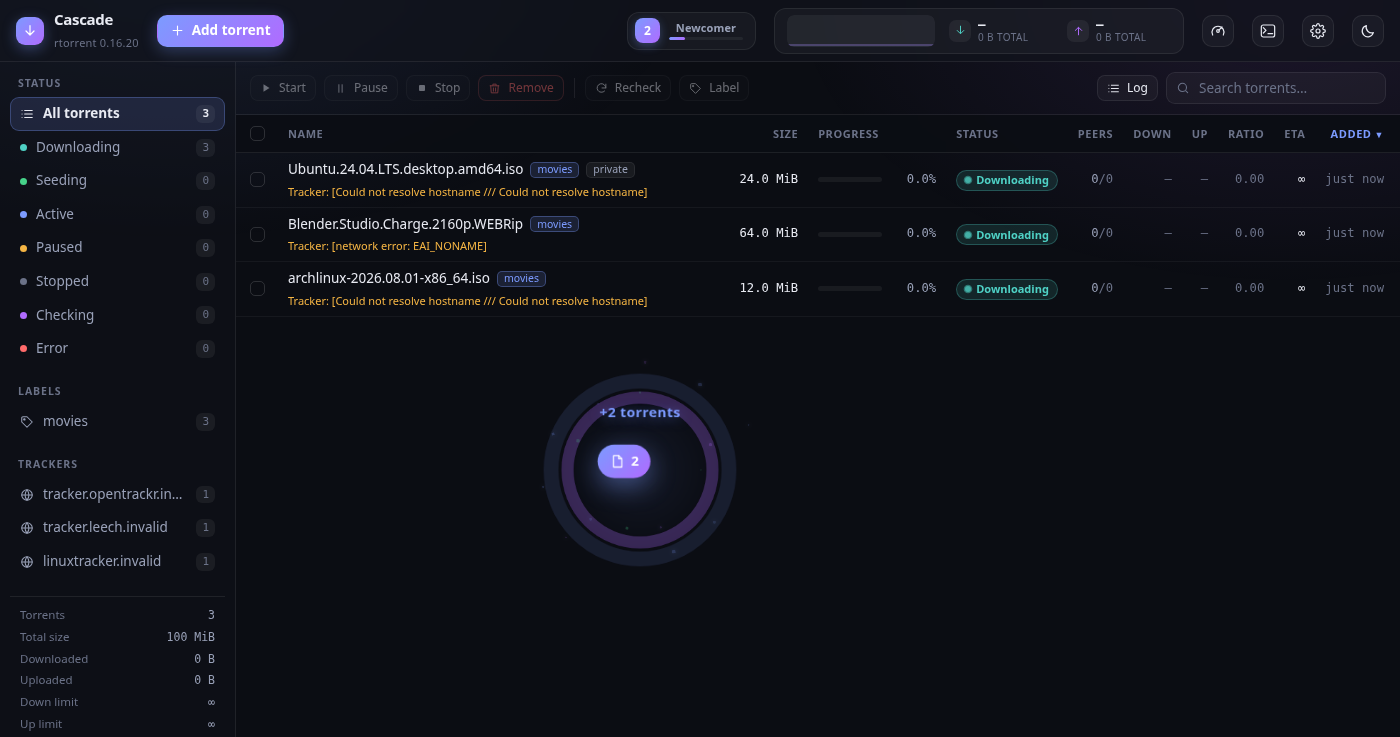
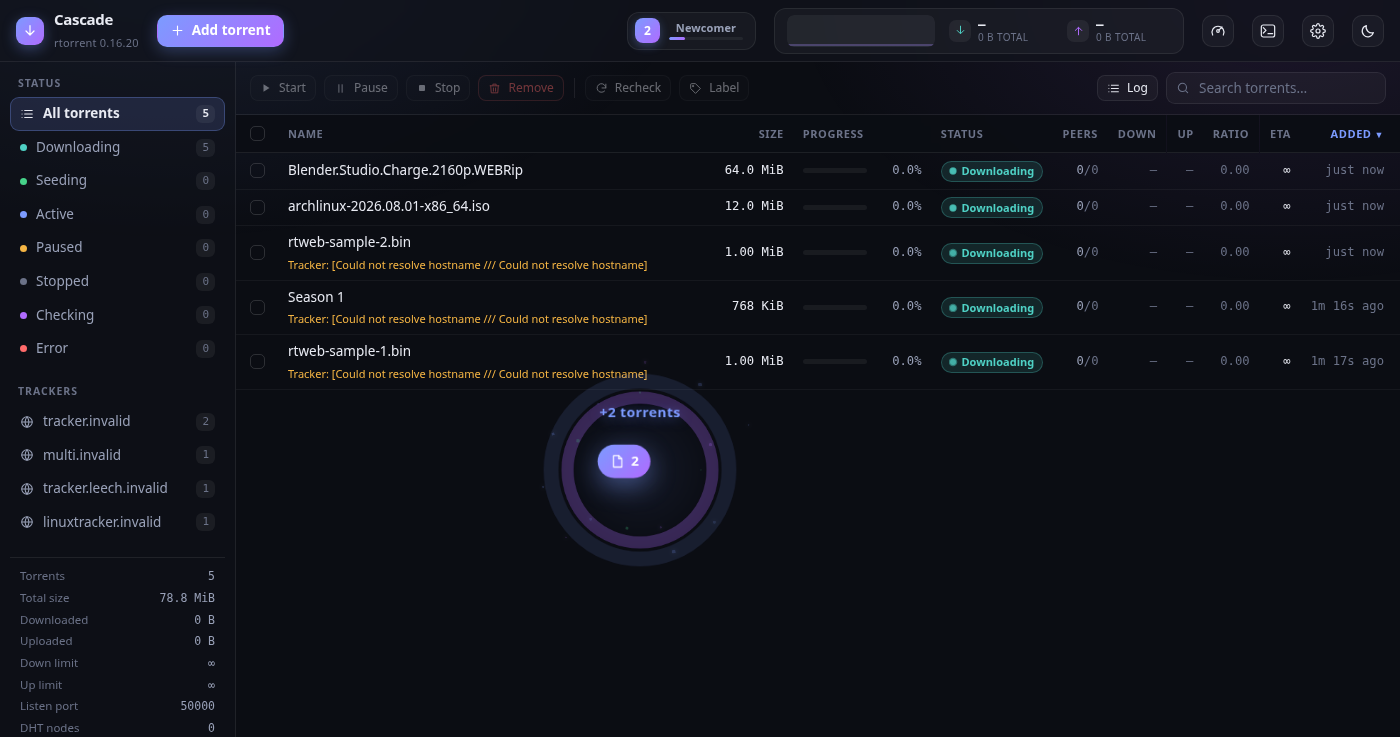
Drop to add: no dialog, and reject files that are not torrents
Dropping .torrent files on the window now adds and starts them straight away.
The pickup animation is the confirmation; the Add torrent button remains the
route for choosing a directory or label, or for magnets and URLs.

Removing the dialog removed the only place a failure was visible, and rtorrent
is unhelpful here: load.raw_start returns 0 for any payload at all, so a file
that is not a torrent was accepted, reported as added, and quietly did nothing.

So the server now checks before rtorrent sees the data. A small bencode reader
parses the file, rejects it with the reason if it will not parse, and derives
the info hash from the raw info dictionary; the load is then confirmed by
waiting for that hash to appear in the session, because load.* is queued rather
than immediate. Failures come back per file and the UI toasts them.

Verified the hashes against an independent implementation for both single-file
and multi-file torrents, and that corrupt, truncated and empty files are each
refused with a specific message rather than disappearing.

diff --git a/server/src/torrentfile.ts b/server/src/torrentfile.ts
@@ -1,0 +1,119 @@
+/**
+ * Just enough bencode to validate a .torrent and derive its info hash.
+ *
+ * rtorrent's load.raw_start returns 0 whether or not the payload is a real
+ * torrent — a bad file only shows up later in its log — so an upload that is
+ * never going to work has to be caught here if the user is to hear about it.
+ */
+import crypto from 'node:crypto';
+
+type Bencode = number | Buffer | Bencode[] | { [key: string]: Bencode };
+
+class BencodeError extends Error {}
+
+function decode(buf: Buffer, start: number): [Bencode, number] {
+  if (start >= buf.length) throw new BencodeError('truncated');
+  const marker = buf[start];
+
+  // Integer: i<digits>e
+  if (marker === 0x69) {
+    const end = buf.indexOf(0x65, start);
+    if (end < 0) throw new BencodeError('unterminated integer');
+    const value = Number(buf.subarray(start + 1, end).toString('latin1'));
+    if (!Number.isFinite(value)) throw new BencodeError('bad integer');
+    return [value, end + 1];
+  }
+
+  // List: l<items>e
+  if (marker === 0x6c) {
+    const items: Bencode[] = [];
+    let offset = start + 1;
+    while (buf[offset] !== 0x65) {
+      const [item, next] = decode(buf, offset);
+      items.push(item);
+      offset = next;
+    }
+    return [items, offset + 1];
+  }
+
+  // Dictionary: d<key><value>...e
+  if (marker === 0x64) {
+    const result: Record<string, Bencode> = {};
+    let offset = start + 1;
+    while (buf[offset] !== 0x65) {
+      const [key, afterKey] = decode(buf, offset);
+      if (!Buffer.isBuffer(key)) throw new BencodeError('non-string dictionary key');
+      const [value, afterValue] = decode(buf, afterKey);
+      result[key.toString('utf8')] = value;
+      // Remember where each value sits so the info dict can be hashed verbatim.
+      Object.defineProperty(result, `__span_${key.toString('utf8')}`, {
+        value: [afterKey, afterValue],
+        enumerable: false,
+      });
+      offset = afterValue;
+    }
+    return [result, offset + 1];
+  }
+
+  // Byte string: <length>:<bytes>
+  const colon = buf.indexOf(0x3a, start);
+  if (colon < 0) throw new BencodeError('unterminated string');
+  const length = Number(buf.subarray(start, colon).toString('latin1'));
+  if (!Number.isInteger(length) || length < 0) throw new BencodeError('bad string length');
+  const from = colon + 1;
+  const to = from + length;
+  if (to > buf.length) throw new BencodeError('string past end of data');
+  return [buf.subarray(from, to), to];
+}
+
+export interface TorrentFileInfo {
+  infoHash: string;
+  name: string;
+  size: number;
+}
+
+/** Throws when the data is not a usable .torrent. */
+export function parseTorrentFile(data: Buffer): TorrentFileInfo {
+  let root: Bencode;
+  try {
+    [root] = decode(data, 0);
+  } catch (error) {
+    throw new Error(`not a valid .torrent file (${(error as Error).message})`);
+  }
+  if (!root || typeof root !== 'object' || Array.isArray(root) || Buffer.isBuffer(root)) {
+    throw new Error('not a valid .torrent file (expected a dictionary)');
+  }
+
+  const record = root as Record<string, Bencode>;
+  const span = (record as unknown as Record<string, [number, number]>).__span_info;
+  const info = record.info;
+  if (!span || !info || typeof info !== 'object' || Array.isArray(info) || Buffer.isBuffer(info)) {
+    throw new Error('not a valid .torrent file (no info dictionary)');
+  }
+
+  const infoRecord = info as Record<string, Bencode>;
+  const name = Buffer.isBuffer(infoRecord.name) ? infoRecord.name.toString('utf8') : '';
+  const length = typeof infoRecord.length === 'number' ? infoRecord.length : 0;
+  const files = Array.isArray(infoRecord.files) ? infoRecord.files : [];
+  const total =
+    length ||
+    files.reduce<number>((sum, entry) => {
+      if (!entry || typeof entry !== 'object' || Array.isArray(entry) || Buffer.isBuffer(entry)) {
+        return sum;
+      }
+      const size = (entry as Record<string, Bencode>).length;
+      return sum + (typeof size === 'number' ? size : 0);
+    }, 0);
+
+  if (!Buffer.isBuffer(infoRecord.pieces) && files.length === 0 && !length) {
+    throw new Error('not a valid .torrent file (info dictionary is incomplete)');
+  }
+
+  const infoHash = crypto
+    .createHash('sha1')
+    .update(data.subarray(span[0], span[1]))
+    .digest('hex')
+    .toUpperCase();
+
+  return { infoHash, name, size: total };
+}

diff --git a/web/src/App.tsx b/web/src/App.tsx
@@ -85,7 +85,6 @@ export function App() {
   const [menu, setMenu] = useState<MenuState | null>(null);
   const [dropping, setDropping] = useState(false);
   const [drawerOpen, setDrawerOpen] = useState(false);
-  const [pendingFiles, setPendingFiles] = useState<File[]>([]);
   const [celebration, setCelebration] = useState(0);
   const [burst, setBurst] = useState<Burst | null>(null);
   const burstId = useRef(0);
@@ -253,12 +252,27 @@ export function App() {
       toast.push('info', `${rejected} file(s) ignored — only .torrent files are accepted`);
     }
     if (files.length === 0) return;
-    setPendingFiles(files);
-    // Play the pickup where the files landed, then bring up the dialog so the
-    // animation is not immediately covered by it.
+    // Dropping adds straight away — the pickup is the confirmation. Use the
+    // "Add torrent" button when a destination or label is needed.
     setBurst({ id: ++burstId.current, x: event.clientX, y: event.clientY, count: files.length });
-    window.setTimeout(() => setDialog('add'), 430);
+    void addDropped(files);
   };
+
+  const addDropped = useCallback(
+    async (files: File[]) => {
+      const form = new FormData();
+      for (const file of files) form.append('torrents', file);
+      form.append('start', '1');
+      try {
+        const result = await api.upload(form);
+        for (const error of result.errors) toast.push('error', error);
+        if (result.added > 0) await refresh();
+      } catch (error) {
+        toast.error(error);
+      }
+    },
+    [refresh, toast],
+  );
 
   /* ------------------------------ filtering ---------------------------- */
 
@@ -726,8 +740,8 @@ export function App() {
         <div className="drop-overlay">
           <div className="drop-card">
             <IconUpload size={30} />
-            <strong>Drop to add torrents</strong>
-            <span>.torrent files only</span>
+            <strong>Drop to add</strong>
+            <span>.torrent files start immediately</span>
           </div>
         </div>
       )}
@@ -737,14 +751,10 @@ export function App() {
 
       {dialog === 'add' && (
         <AddDialog
-          onClose={() => {
-            setDialog(null);
-            setPendingFiles([]);
-          }}
+          onClose={() => setDialog(null)}
           onAdded={() => void refresh()}
           defaultDirectory={''}
           labels={labels}
-          initialFiles={pendingFiles}
         />
       )}
       {dialog === 'progress' && game && (

diff --git a/server/src/service.ts b/server/src/service.ts
@@ -28,6 +28,7 @@ import {
 } from './model';
 import { RtorrentClient, type MulticallEntry } from './rtorrent';
 import { Store, type ThrottleGroup } from './store';
+import { parseTorrentFile } from './torrentfile';
 import type { XValue } from './xmlrpc';
 
 export interface GlobalSettings {
@@ -475,10 +476,42 @@ export class RtorrentService {
     options: { start: boolean; directory?: string; label?: string },
   ): Promise<void> {
     await this.capabilities.ensure();
+
+    // rtorrent reports success for anything, so reject junk before handing it
+    // over — otherwise a mistyped file just vanishes.
+    let parsed;
+    try {
+      parsed = parseTorrentFile(data);
+    } catch (error) {
+      throw new HttpError(400, (error as Error).message);
+    }
+
     const method = options.start
       ? this.capabilities.dialect.loadRawStart
       : this.capabilities.dialect.loadRaw;
     await this.client.call(method, ['', data, ...this.loadCommands(options)]);
+
+    // load.* is queued rather than immediate, so confirm the torrent actually
+    // landed instead of assuming it did.
+    if (!(await this.waitForTorrent(parsed.infoHash))) {
+      throw new HttpError(
+        502,
+        `rtorrent did not accept "${parsed.name || parsed.infoHash}" — see the rtorrent log`,
+      );
+    }
+  }
+
+  /** Poll briefly for a hash to appear in the session. */
+  private async waitForTorrent(hash: string, timeoutMs = 3000): Promise<boolean> {
+    const deadline = Date.now() + timeoutMs;
+    for (;;) {
+      const [result] = await this.client.multicallSettled([
+        { methodName: 'd.hash', params: [hash] },
+      ]);
+      if (!(result instanceof Error) && String(result).toUpperCase() === hash) return true;
+      if (Date.now() >= deadline) return false;
+      await new Promise((resolve) => setTimeout(resolve, 150));
+    }
   }
 
   async addTorrentUrl(

diff --git a/web/src/components/AddDialog.tsx b/web/src/components/AddDialog.tsx
@@ -9,18 +9,10 @@ interface AddDialogProps {
   onAdded: () => void;
   defaultDirectory: string;
   labels: string[];
-  /** Files dropped onto the window before the dialog opened. */
-  initialFiles?: File[];
 }
 
-export function AddDialog({
-  onClose,
-  onAdded,
-  defaultDirectory,
-  labels,
-  initialFiles,
-}: AddDialogProps) {
-  const [files, setFiles] = useState<File[]>(initialFiles ?? []);
+export function AddDialog({ onClose, onAdded, defaultDirectory, labels }: AddDialogProps) {
+  const [files, setFiles] = useState<File[]>([]);
   const [urls, setUrls] = useState('');
   const [directory, setDirectory] = useState('');
   const [label, setLabel] = useState('');

diff --git a/README.md b/README.md
@@ -17,8 +17,8 @@ dependency-light Node backend that speaks rtorrent's XML-RPC over SCGI.
 - **Everything rtorrent exposes** — upload `.torrent` files, magnet links and URLs, global and
   per-torrent throttling, file priorities, tracker management, peers, labels, live settings, plus
   a raw API console and an XML-RPC passthrough for anything the UI does not wrap.
-- **Drop torrents anywhere** — drag `.torrent` files onto the window and the add dialog opens
-  ready to go.
+- **Drop torrents anywhere** — drag `.torrent` files onto the window and they are added and
+  started on the spot, no dialog in the way.
 - **Lightly gamified** — a level and a set of badges earned from real transfer totals, with a
   confetti burst when a download lands. Off with one environment variable if it is not for you.
 - **Four themes** — system, light, dark, and a retro 8-bit CRT mode. Preferences are stored on the
@@ -230,14 +230,17 @@ Drag `.torrent` files onto the window — anywhere — and drop to add them.
 
 ![Drag and drop](docs/screenshot-drop.png)
 
-Dropping plays a pickup: a shockwave and sparks at the point of impact, a `+N torrents` score, and
-the payload flying up into the Add button, which takes the hit. In the retro theme the whole thing
-goes blocky.
+Dropped files are added and started immediately — no dialog, no questions. The confirmation is a
+pickup: a shockwave and sparks at the point of impact, a `+N torrents` score, and the payload
+flying up into the Add button, which takes the hit. In the retro theme the whole thing goes blocky.
 
 ![Drop pickup](docs/screenshot-drop-burst.png)
 
-The add dialog opens prefilled with what you dropped; magnet links and URLs can be pasted
-alongside. Destination directory and label are set at add time.
+Torrents are checked before rtorrent sees them, so a file that is not really a torrent tells you
+so instead of vanishing.
+
+Use the **Add torrent** button when you want to choose a destination directory or label first, or
+to paste magnet links and URLs.
 
 ![Add torrents](docs/screenshot-add.png)
 

diff --git a/CLAUDE.md b/CLAUDE.md
@@ -158,6 +158,19 @@ Four modes: `system`, `light`, `dark`, `retro`. `system` resolves through `prefe
 plus, for retro, a set of shape overrides (zero radius, offset shadows, stepped bars). Keep it that
 way.
 
+## Adding torrents
+
+Dropping on the window adds immediately; the **Add torrent** button is the path for choosing a
+directory or label, or for magnets and URLs. Because the drop path has no dialog to report into,
+`addTorrentFile` has to be trustworthy:
+
+- `load.raw_start` returns 0 for **any** payload — a corrupt file only shows up in rtorrent's log —
+  so `torrentfile.ts` parses the bencode first and rejects what is not a torrent, with the reason.
+- The same parse yields the info hash, and the load is confirmed by waiting for that hash to appear
+  in the session. `load.*` is queued, not immediate, so "the call returned" is not "it loaded".
+
+Failures come back per file in the upload response and are toasted by the UI.
+
 ## Animations
 
 `Celebrate` (download finished) and `DropBurst` (files dropped) are fire-and-forget: the parent
